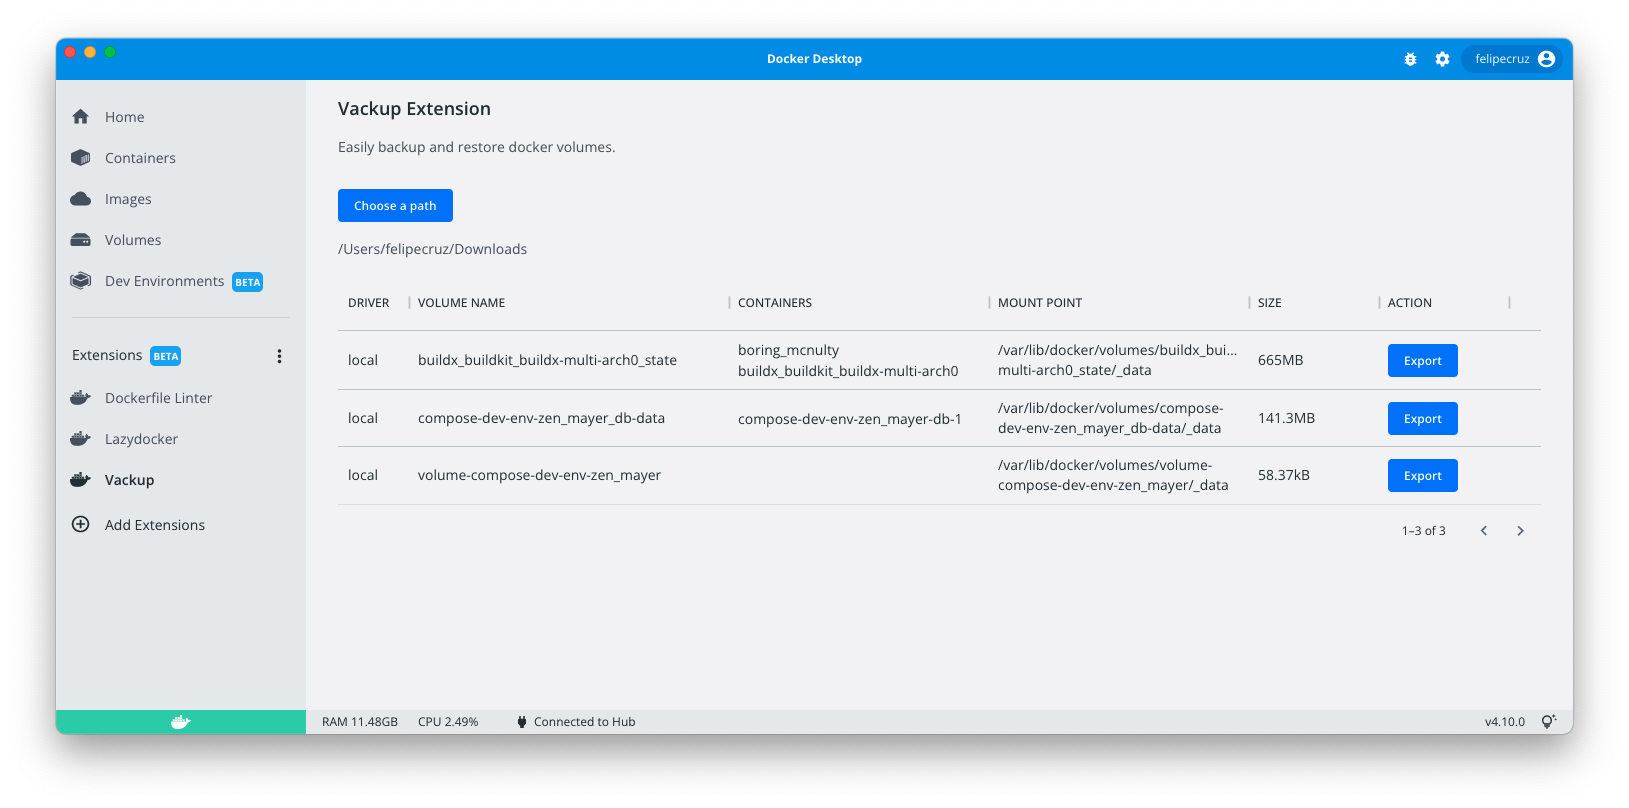
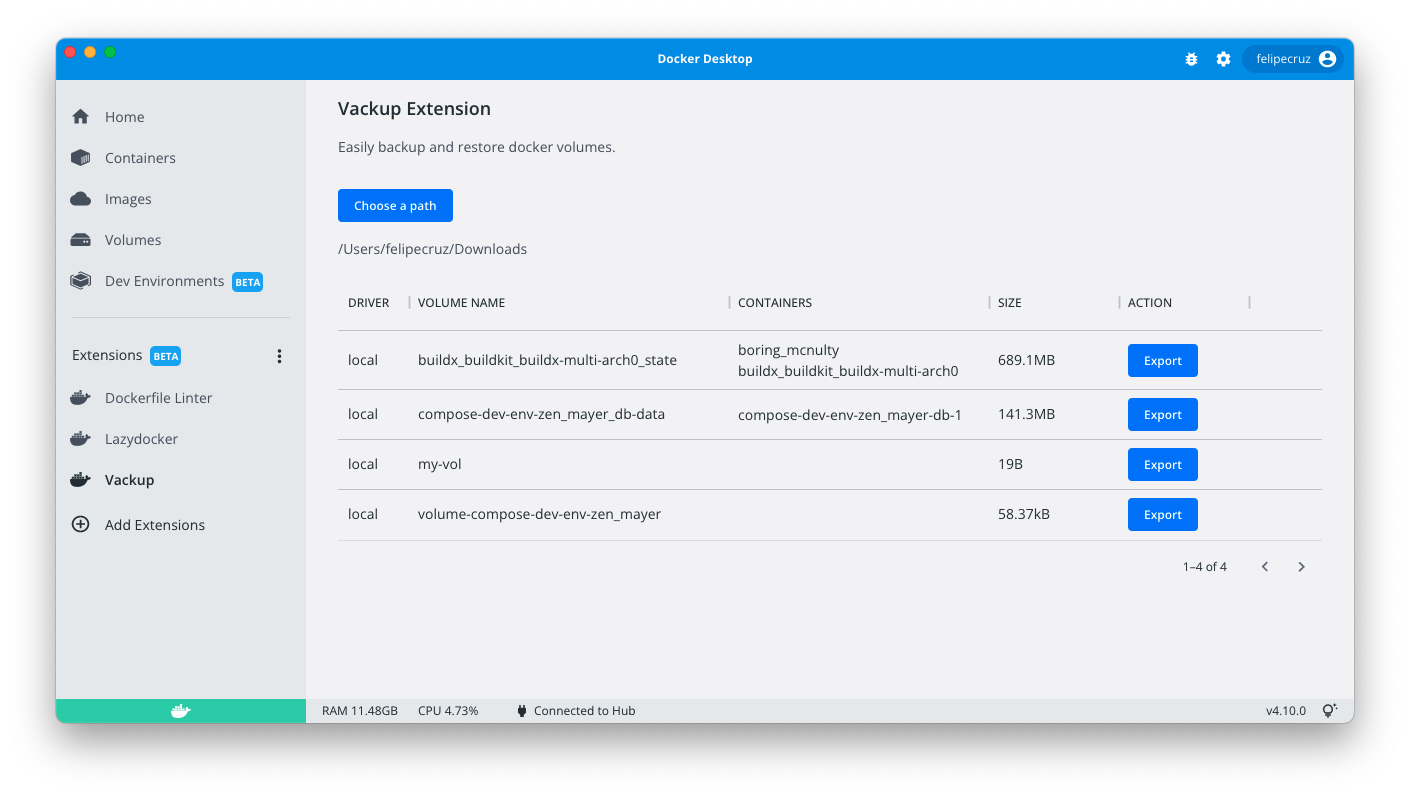
Remove mountpoint column

diff --git a/ui/src/App.tsx b/ui/src/App.tsx
@@ -55,7 +55,6 @@ export function App() {
         return <></>;
       },
     },
-    { field: "volumeMountPoint", headerName: "Mount point", width: 260 },
     { field: "volumeSize", headerName: "Size", width: 130 },
     {
       field: "export",
@@ -152,7 +151,6 @@ export function App() {
           volumeName: volume.Name,
           volumeLinks: volume.Links,
           volumeContainers: volumeContainersMap[volume.Name],
-          volumeMountPoint: volume.Mountpoint,
           volumeSize: volume.Size,
         };
       });